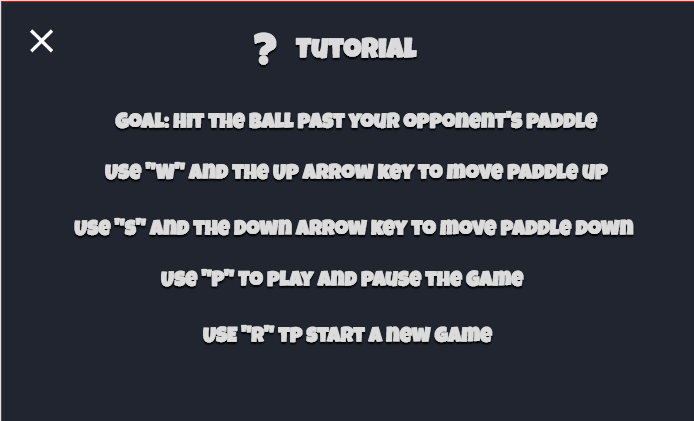
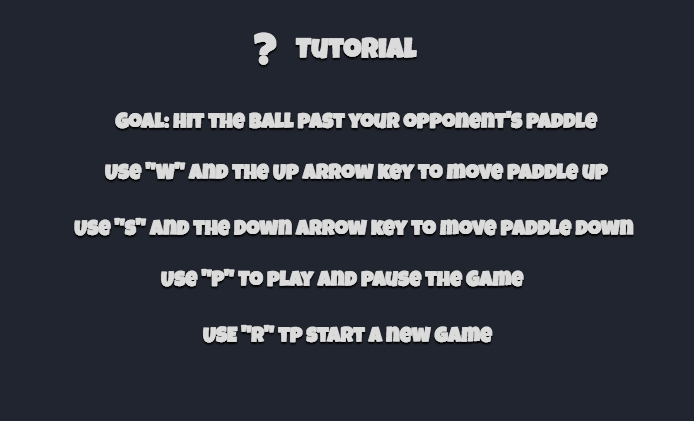
tutorial page completed closes #30

Changed region(s): [[0.0, 0.0, 1.0, 0.0309], [0.0303, 0.0618, 0.0908, 0.1235]]

diff --git a/src/main/java/stylesheet.css b/src/main/java/stylesheet.css
@@ -44,13 +44,6 @@
     -fx-font-size: 11pt;
 }
 
-.tutorial-label {
-    -fx-text-fill: #ffffff;
-    -fx-font-family: "Segoe UI", Helvetica, Arial, sans-serif;
-    -fx-font-size: 16pt;
-}
-
-
 
 .scoreboard-label {
     -fx-font-family: "Segoe UI", Helvetica, Arial, sans-serif;

diff --git a/src/main/java/proj/polypong/Tutorial.java b/src/main/java/proj/polypong/Tutorial.java
@@ -1,8 +1,12 @@
 package proj.polypong; 
 
+import java.io.FileInputStream;
+import java.io.FileNotFoundException;
 import java.util.Collections;
 import java.util.Comparator;
 import java.util.List;
+import java.util.logging.Level;
+import java.util.logging.Logger;
 
 import javafx.event.ActionEvent;
 import javafx.event.EventHandler;
@@ -10,23 +14,20 @@ import javafx.geometry.Pos;
 import javafx.scene.Scene;
 import javafx.scene.control.Button;
 import javafx.scene.control.Label;
+import javafx.scene.image.Image;
 import javafx.scene.layout.HBox;
 import javafx.scene.layout.StackPane;
 import javafx.scene.layout.VBox;
 import javafx.scene.paint.Color;
+import javafx.scene.paint.ImagePattern;
+import javafx.scene.shape.Rectangle;
 
 public class Tutorial extends Window {
 	
 	private GameController gc;
 	
-	
-	
-	class ScoreComparator implements Comparator<Score> {
-	    public int compare(Score o1, Score o2) {
-	        return o2.scoreVal.compareTo(o1.scoreVal);
-	    }
-	}
-	
+	private static final Logger LOGGER =  
+            Logger.getLogger(Logger.GLOBAL_LOGGER_NAME); 
 	
 	public Tutorial(GameController gc) {
 		super();
@@ -38,10 +39,10 @@ public class Tutorial extends Window {
 		
 		
 		Scene scene = new Scene(this, width, height);
-//		scene.getStylesheets().add("stylesheet.css");
-//		this.setStyle("-fx-background-color: #22262f;");
-//		String labelStyle = "tutorial-label";
-//		
+		Rectangle page = new Rectangle(width,height);
+		scene.getStylesheets().add("stylesheet.css");
+		this.setStyle("-fx-background-color: #22262f;");
+		
 		// back button
 		Button back = new Button("X");
 		back.getStyleClass().add("back-button");
@@ -52,9 +53,18 @@ public class Tutorial extends Window {
     		}
     	});
         
-        StackPane.setAlignment(back, Pos.TOP_LEFT);
+        try {
+			Image logoImage = new Image(new FileInputStream("images/tutorialPage.png"));
+			page.setFill(new ImagePattern(logoImage));
+		} catch (FileNotFoundException e) {
+			e.printStackTrace();
+			LOGGER.log(Level.WARNING,"file was not found - oh no");
+		}
         
+        StackPane.setAlignment(back, Pos.TOP_LEFT);
         VBox output = new VBox();
+        StackPane.setAlignment(output, Pos.TOP_LEFT);
+        output.getChildren().add(page);
         this.getChildren().addAll(output, back);
 		
 		return scene;
